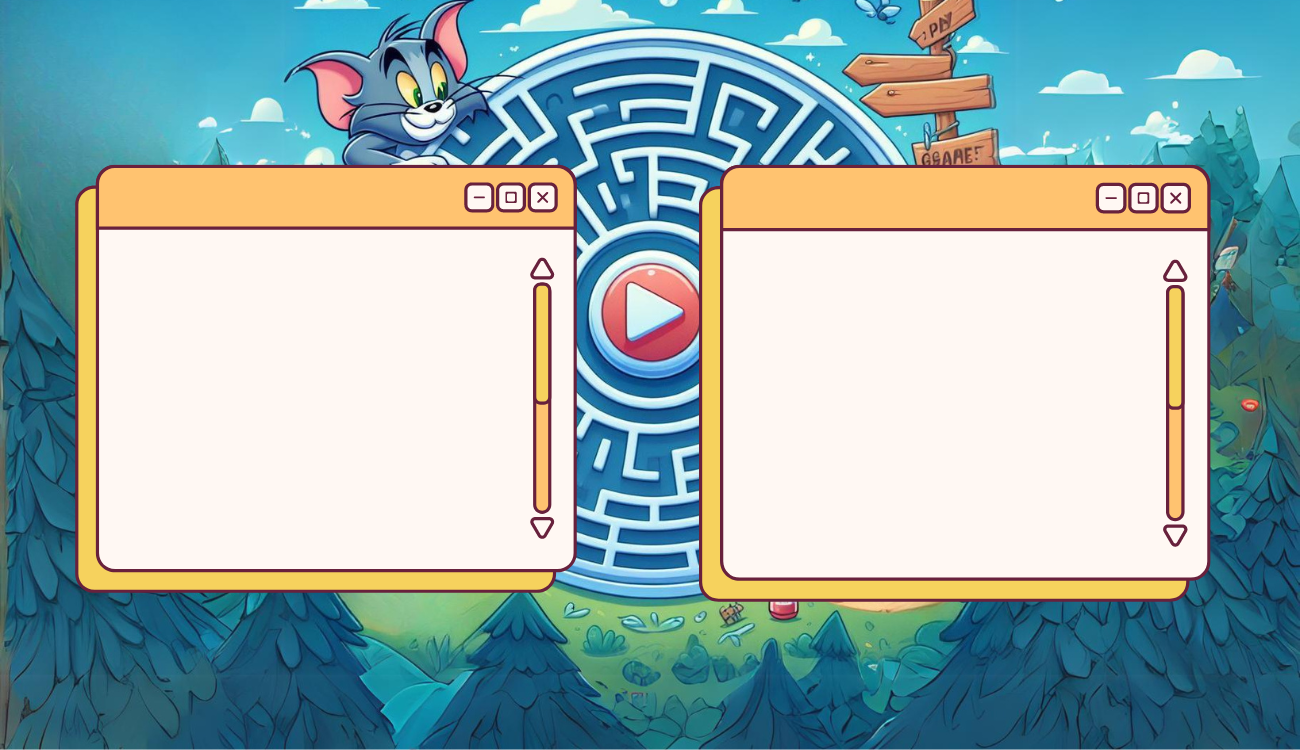
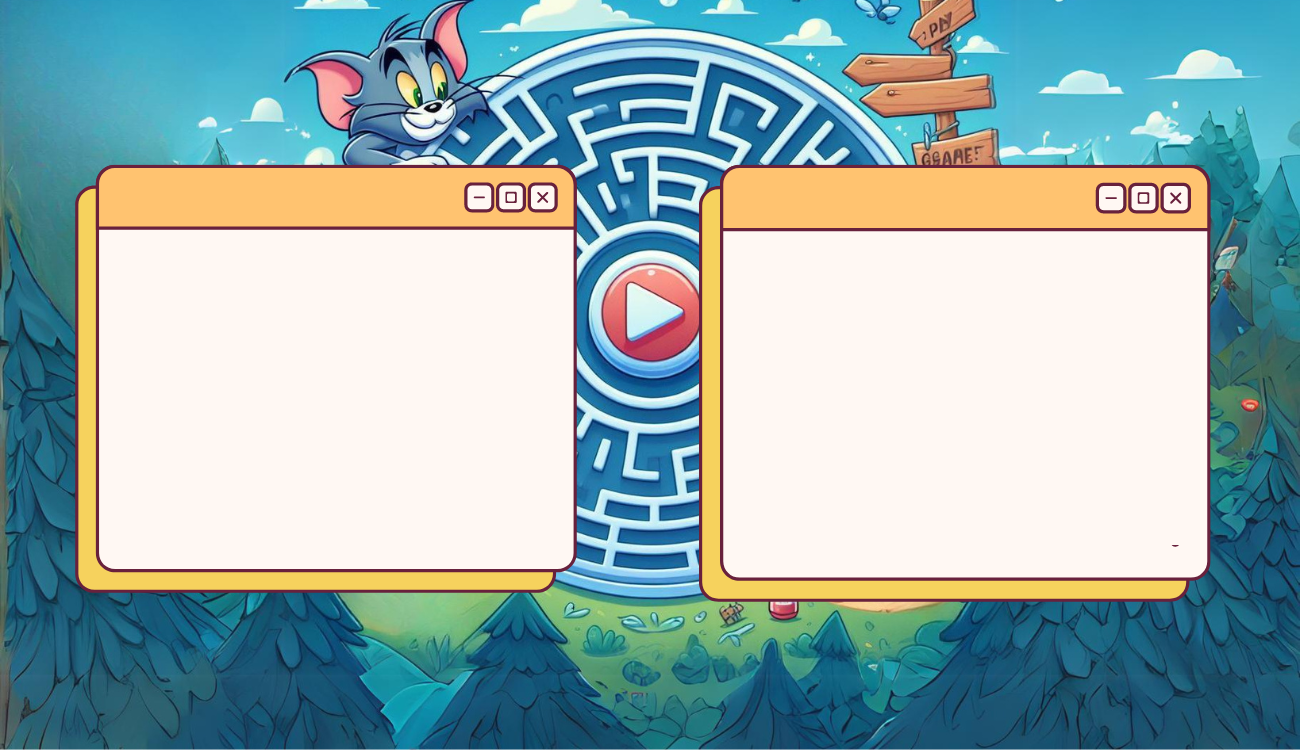
duong

Changed region(s): [[0.8923, 0.3373, 0.9231, 0.736], [0.4, 0.3373, 0.4308, 0.7053]]

diff --git a/login_startgame.py b/login_startgame.py
@@ -60,6 +60,9 @@ class LoginMenu():
             self.regis_noti.set_title('Register DONE!')
             print('register OK!')
             pygame.time.delay(1500)
+            self.running_menu = False
+            g = MenuGame(data['username'], data['password'])
+            g.start()
         else:
             print('not register ok')
             self.regis_noti.set_title('Register AGAIN!')
@@ -111,7 +114,7 @@ class LoginMenu():
             widget_font = pygame_menu.font.FONT_COMIC_NEUE,               # font widget
             widget_font_antialias = True,                                 # font widget, khử răng cưa
             widget_font_color = (0, 0, 0),                                # màu chữ chưa được chọn
-            selection_color = (255, 255, 255),                            # màu chữ được chọn
+            selection_color = (249,16,23),                                # màu chữ được chọn
             widget_background_color = (249,72,82, 0),                     # màu nền widget
             widget_font_size = 30,                                        # size font widget                              
             widget_offset = (0, 0),                                       # x-axis and y-axis (x, y) offset
@@ -136,6 +139,7 @@ class LoginMenu():
         self.login_menu_theme.widget_offset = (0.38, 0.22)  
         self.login_menu_theme.title_close_button = True
         self.login_menu_theme.widget_alignment = pygame_menu.locals.ALIGN_LEFT
+        
 
         
         self.register_menu_theme = my_theme.copy()
@@ -170,7 +174,7 @@ class LoginMenu():
             # input_underline_vmargin = 1,
             password=False,
             onchange = self.reset_noti_login)
-        self.login_menu.add.button('                            Login', self.check_login)
+        self.login_menu.add.button('Login', self.check_login)
         self.login_menu.add.button('Return to main menu', pygame_menu.events.BACK)
 
     def init_register_menu(self):
@@ -621,9 +625,9 @@ class MenuGame():
             border_color=(0, 0, 0, 0),  #'#36372f',
             border_width=1,
             float=True,
-            height=max(len(easy_labels) * 40 , 420),
-            max_height=420,
-            width=300
+            height=max(len(easy_labels) * 40 , 320),
+            max_height=320,
+            width=270
         )
 
         medium = self.leaderboard.add.frame_v(
@@ -631,9 +635,9 @@ class MenuGame():
             border_color=(0, 0, 0, 0),
             border_width=1,
             float=True,
-            height=max(len(medium_labels) * 40 , 420),
-            max_height=420,
-            width=300
+            height=max(len(medium_labels) * 40 , 320),
+            max_height=320,
+            width=270
         )
 
         hard = self.leaderboard.add.frame_v(
@@ -641,25 +645,25 @@ class MenuGame():
             border_color=(0, 0, 0, 0),
             border_width=1,
             float=True,
-            height=max(len(hard_labels) * 40 , 420),
-            max_height=420,
-            width=300
+            height=max(len(hard_labels) * 40 , 320),
+            max_height=320,
+            width=270
         )
 
         for j in easy_labels:
             easy.pack(j)
-        easy.translate(-250, 34)
+        easy.translate(-250, 0)
 
         for j in medium_labels:
             medium.pack(j)
-        medium.translate(110, 34)
+        medium.translate(110, 0)
 
         for j in hard_labels:
             hard.pack(j)
-        hard.translate(465, 34)
+        hard.translate(465, 0)
         
         button = self.leaderboard.add.button('Return to main menu', pygame_menu.events.BACK)
-        button.translate(150, 480)
+        button.translate(150, 435)
 
     def init_setting(self):
         self.settings_menu = pygame_menu.Menu(
